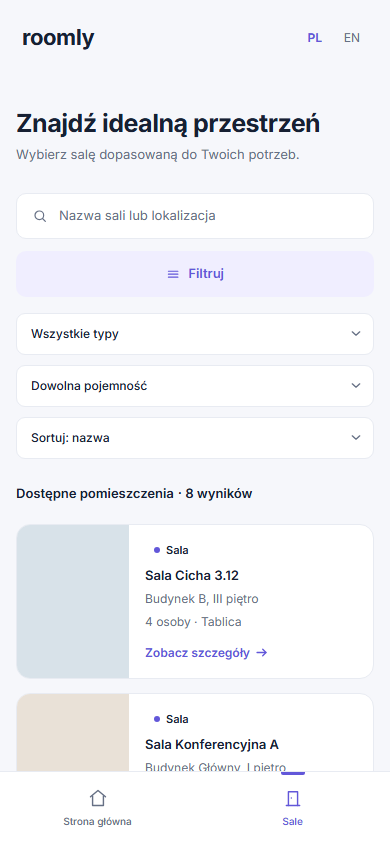
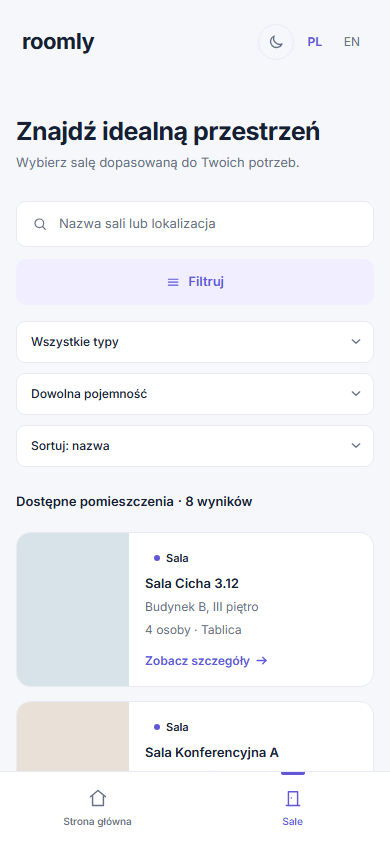
docs: document theme and WCAG audit

diff --git a/AGENTS.md b/AGENTS.md
@@ -5,8 +5,8 @@
 >
 > **Repozytorium:** `tapala/WDPAI-proj`
 > **Kurs:** Projektowanie aplikacji internetowych 26/27
-> **Wersja dokumentu:** 2026-11-19
-> **Aktualny etap:** Laboratorium 3 ukończone — interfejs oparty na Figmie: tokeny, powłoka desktop/mobile, katalog z filtrami, karty sal, szczegóły, stany puste i błędów, QA dostępności. Brakuje bazy, logowania, rezerwacji i JavaScriptu.
+> **Wersja dokumentu:** 2026-11-20
+> **Aktualny etap:** Laboratoria 4–5 ukończone — interfejs z Figmy, motyw jasny/ciemny i audyt WCAG. Brakuje Lab 6 (formularze POST) oraz bazy, logowania i rezerwacji.
 
 ---
 
@@ -99,16 +99,17 @@ Figma jest **głównym źródłem prawdy** dla wyglądu: kolorystyki, typografii
 
 ### 2.6. Aktualny etap
 
-Aktualny stan (2026-11-19):
+Aktualny stan (2026-11-20):
 
 - temat i model domenowy Roomly są opisane w `Projekt.txt` oraz w tym pliku;
 - istnieje konfiguracja Docker Compose z usługami `server`, `php`, `db`, `ollama`, `mailpit`, `pgadmin-wdpai`;
 - działa front controller `public/index.php`, router `App\Routing`, `AppController`, `View`, `Translator` oraz strona główna z layoutem i przełączaniem PL/EN;
 - `composer.json` z mapowaniem PSR-4 `App\` → `src/` i wygenerowany autoloader są gotowe;
 - interfejs z Figmy: tokeny i komponenty w `public/css/style.css`, sidebar + topbar na desktopie, dolna nawigacja na mobile, katalog `/rooms` z wyszukiwaniem i filtrami, karty sal, szczegóły `/rooms/{id}`, stany puste i błędy `400`/`404`/`500`;
+- motyw jasny/ciemny: tokeny w `html[data-theme="dark"]`, `public/js/theme-init.js` (anty-FOUC), `theme.js` (przełącznik, `localStorage`, wybór systemowy) oraz audyt WCAG w obu motywach;
 - testy jednostkowe routingu, filtra sal, repozytorium w pamięci i odmiany PL/EN (PHPUnit, 38 testów);
-- README zawiera zrzuty ekranu, architekturę, routing, raport WCAG i Security Bingo;
-- brakuje schematu bazy i danych SQL, uwierzytelniania, rezerwacji, JavaScriptu/Fetch, panelu administratora, uploadu zdjęć, e-maili/CRON, motywu ciemnego i wdrożenia.
+- README zawiera zrzuty ekranu (jasne i ciemne), architekturę, routing, raport WCAG i Security Bingo;
+- brakuje formularzy POST z CSRF/PRG (Lab 6), schematu bazy i danych SQL (Lab 7), uwierzytelniania (Lab 9), rezerwacji (Lab 7–12), Fetch API (Lab 10–11), panelu administratora, uploadu zdjęć, e-maili/CRON i wdrożenia.
 
 To nie jest jeszcze działająca aplikacja domenowa. Agent ma ją rozwijać zgodnie z roadmapą, nie opisywać jako ukończoną.
 
@@ -651,7 +652,8 @@ To lista startowa. Nie traktuj jej jako wymówki — to zadania do wykonania w p
 | Kontener `php` nie dostaje zmiennych `DB_*` | Aplikacja nie ma z czego zbudować połączenia PDO | Przekazać `DB_*` w sekcji `environment` usługi `php` i czytać je w `src/Database.php` |
 | Brak schematu bazy i danych SQL | Kryteria 10–12 niezrealizowane | Dodać `database/01-schema.sql`, `database/02-seed.sql` i repozytorium PDO (Lab 7) |
 | Brak uwierzytelniania i ról | Kryteria 20–24 niezrealizowane | Dodać logowanie, sesję, `USER`/`ADMIN` i autoryzację (Lab 9) |
-| Brak JavaScriptu, Fetch API i motywu ciemnego | Kryteria 14, 15, 18 | Dodać `theme.js`, walidację klienta, endpointy JSON i Fetch (Lab 10–12) |
+| Brak formularzy POST, CSRF i PRG | Kryteria 9, 13, 27 | Dodać walidację serwera, token CSRF i Post/Redirect/Get (Lab 6) |
+| Brak Fetch API i walidacji klienta | Kryteria 14, 15 | Dodać walidację klienta, endpointy JSON i Fetch (Lab 10–12) |
 | Brak rezerwacji i panelu administratora | Główny proces biznesowy i kryteria 8, 25–26 | Zbudować moduł rezerwacji po bazie i logowaniu (Lab 7–12) |
 | Szczegóły sali bez formularza rezerwacji i galerii | Kryteria 8, 34 | Panel rezerwacji po module rezerwacji; upload zdjęć w Lab 13 |
 | Brak e-maili i CRON | Kryteria 32–33 | `MailService` i `bin/cron.php` (Lab 13) |
@@ -824,4 +826,4 @@ Ten plik jest żywym dokumentem. Aktualizuj go, gdy:
 
 Nie kopiuj do niego całego README ani całych laboratoriów. Trzymaj tu **operacyjne zasady**, a szczegóły produktu w `README.md`.
 
-**Ostatnia aktualizacja:** 2026-11-19
+**Ostatnia aktualizacja:** 2026-11-20
